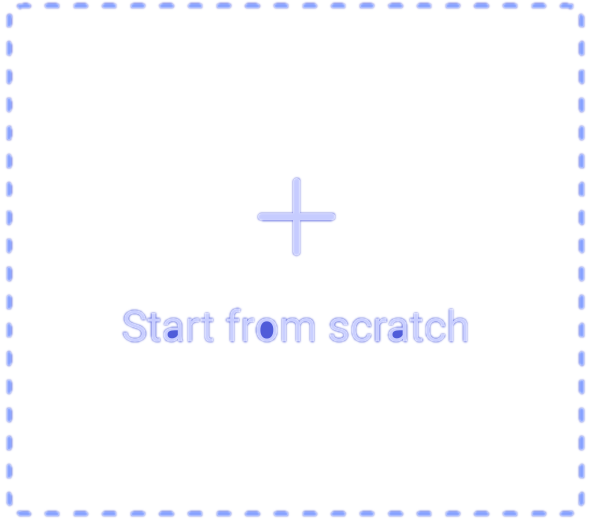
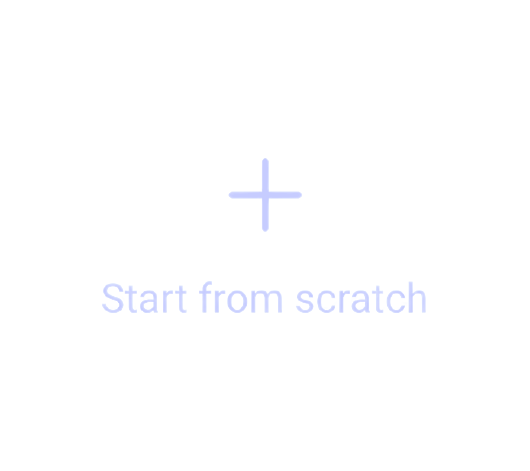
Commit3

diff --git a/src/Content/CardsSection.js b/src/Content/CardsSection.js
@@ -30,9 +30,14 @@ const useStyles = makeStyles(() => ({
     ['@media (max-width: 767px)']: { // eslint-disable-line no-useless-computed-key
       borderRadius: '40px',
       background: '#5f6dde',
-      justifyContent: 'center',
-      minWidth: '250px'
+      justifyContent: 'center'
     }
+  },
+  buttonsCardsHeaderContainer: {
+    display: 'flex',
+    flexDirection: 'row',
+    flexWrap: 'nowrap',
+    alignSelf: 'center'
   },
   buttonsCardsHeader: {
     background: '#6063dd',
@@ -41,7 +46,7 @@ const useStyles = makeStyles(() => ({
     fontSize: 14,
     textTransform: 'capitalize',
     height: 35,
-    marginRight: 5
+    marginRight: 10
   },
   buttonCustomerExperience: {
     border: '1px solid white'
@@ -64,12 +69,12 @@ const useStyles = makeStyles(() => ({
     }
   },
   formControl: {
-    width: 85
+    width: 80
   },
   searchHeader: {
     display: 'flex',
     flexDirection: 'row',
-    width: 110,
+    width: 100,
     ['@media (max-width: 768px)']: { // eslint-disable-line no-useless-computed-key
       flex: '1 0 auto'
     }
@@ -78,6 +83,12 @@ const useStyles = makeStyles(() => ({
     display: 'flex',
     flexDirection: 'row',
     alignItems: 'center'
+  },
+  inputSelect: {
+    marginTop: 5
+  },
+  inputSelectIcon: {
+    marginTop: 5
   }
 }))
 
@@ -104,7 +115,7 @@ const CardsSection = () => {
   return (
     <div className={classes.cardsContainer}>
       <div className={classes.cardsHeader}>
-        <div className='hidden-xs'>
+        <div className={`${classes.buttonsCardsHeaderContainer} hidden-xs`}>
           <Button
             className={
               `${classes.buttonCustomerExperience}
@@ -155,7 +166,12 @@ const CardsSection = () => {
               >
                 Newest
               </InputLabel>
-              <Select>
+              <Select
+                classes={{
+                  select: classes.inputSelect,
+                  icon: classes.inputSelectIcon
+                }}
+              >
                 <MenuItem>Newest</MenuItem>
                 <MenuItem>Oldest</MenuItem>
               </Select>

diff --git a/src/Content/Cards.js b/src/Content/Cards.js
@@ -16,14 +16,13 @@ import CardItem from './CardItem'
 
 const useStyles = makeStyles(() => ({
   firstCard: {
-    width: '220px',
     height: '200px',
     margin: '15px',
     borderRadius: '15px',
     alignSelf: 'center',
+    border: '2px dashed #c7cdff',
     ['@media (max-width: 768px)']: { // eslint-disable-line no-useless-computed-key
       height: 'auto',
-      width: '100%',
       margin: 0,
       marginTop: 15
     }
@@ -97,24 +96,23 @@ const Cards = () => {
   const classes = useStyles()
 
   return (
-      <div className='container'>
         <div className='row'>
           <div className='col-xs-12 hidden-sm hidden-md hidden-lg'>
             <div className={classes.firstCard}>
               <CardActionArea>
                 <img
-                  className={classes.cardImgForFirstCard}
+                  className={`${classes.cardImgForFirstCard} img-responsive`}
                   src={firstCardXs}
                   alt={'Picture'}
                 />
               </CardActionArea>
             </div>
           </div>
-          <div className='hidden-xs col-sm-4 col-md-4 col-lg-3'>
+          <div className='hidden-xs col-sm-6 col-md-4 col-lg-3'>
             <div className={classes.firstCard}>
               <CardActionArea>
                 <img
-                  className={classes.cardImgForFirstCard}
+                  className={`${classes.cardImgForFirstCard}  img-responsive`}
                   src={firstCard}
                   alt={'Picture'}
                 />
@@ -124,7 +122,7 @@ const Cards = () => {
           {cardData.map((card) => {
             return (
               // eslint-disable-next-line react/jsx-key
-              <div className='col-xs-12 col-sm-4 col-md-4 col-lg-3'>
+              <div className='col-xs-12 col-sm-6 col-md-4 col-lg-3'>
                 <CardItem
                   key={card.pic}
                   src={card.pic}
@@ -135,7 +133,6 @@ const Cards = () => {
             )
           })}
         </div>
-      </div>
   )
 }
 

diff --git a/src/Content/CardItem.js b/src/Content/CardItem.js
@@ -8,11 +8,12 @@ const useStyles = makeStyles(() => ({
     background: 'whitesmoke',
     borderRadius: '10px',
     height: '200px',
-    width: '210px',
     margin: '15px',
     ['@media (max-width: 768px)']: { // eslint-disable-line no-useless-computed-key
-      height: '130px',
+      height: 'auto',
       width: 'auto',
+      margin: 0,
+      marginTop: 10,
       flexDirection: 'row'
     }
   },
@@ -20,19 +21,19 @@ const useStyles = makeStyles(() => ({
     ['@media (max-width: 768px)']: { // eslint-disable-line no-useless-computed-key
       display: 'flex',
       flexDirection: 'row',
-      height: '130px',
-      width: 'auto',
+      height: '140px',
       justifyContent: 'flex-start'
     }
   },
   cardImg: {
+    width: '100%',
     height: '150px',
     objectFit: 'cover',
     borderTopLeftRadius: '10px',
     borderTopRightRadius: '10px',
     ['@media (max-width: 768px)']: { // eslint-disable-line no-useless-computed-key
       height: '100%',
-      width: 'auto',
+      width: '50%',
       flexDirection: 'row',
       alignSelf: 'flex-start',
       borderTopRightRadius: '0px',
@@ -44,18 +45,20 @@ const useStyles = makeStyles(() => ({
     flexDirection: 'column'
   },
   cardFooterTextH: {
-    marginTop: '5px',
+    marginTop: '10px',
     marginLeft: '10px',
     ['@media (max-width: 768px)']: { // eslint-disable-line no-useless-computed-key
-      order: 2
+      order: 2,
+      marginRight: 5
     }
   },
   cardFooterTextP: {
     color: 'darkgrey',
-    marginTop: '-15px',
+    marginTop: '-10px',
     marginLeft: '10px',
     ['@media (max-width: 768px)']: { // eslint-disable-line no-useless-computed-key
       marginTop: 5,
+      marginRight: 5,
       order: 1
     }
   }

diff --git a/src/App.js b/src/App.js
@@ -19,7 +19,10 @@ const useStyles = makeStyles(() => ({
     flexDirection: 'column',
     display: 'flex',
     justifyContent: 'center',
-    padding: 20
+    padding: 20,
+    ['@media (max-width: 400px)']: { // eslint-disable-line no-useless-computed-key
+      padding: 0
+    }
   },
   contentGetStartText: {
     display: 'flex',
@@ -36,17 +39,19 @@ const App = () => {
   return (
     <div className={classes.root}>
       <Drawer/>
-      <div className={classes.content}>
-        < HeaderContent/>
-        <div className={classes.contentGetStartText}>
-          <h3>Get started with featured templates</h3>
-          <p>
-            These templates can help you start saving time right away,
-            no matter which apps you use.
-          </p>
-        </div>
-        <div>
-          <CardsSection/>
+      <div className='container-fluid'>
+        <div className={classes.content}>
+          < HeaderContent/>
+          <div className={classes.contentGetStartText}>
+            <h3>Get started with featured templates</h3>
+            <p>
+              These templates can help you start saving time right away,
+              no matter which apps you use.
+            </p>
+          </div>
+          <div>
+            <CardsSection/>
+          </div>
         </div>
       </div>
     </div>

diff --git a/src/Drawer.js b/src/Drawer.js
@@ -20,8 +20,7 @@ const useStyles = makeStyles((theme) => ({
     ['@media (max-width: 768px)']: { // eslint-disable-line no-useless-computed-key
       display: 'flex',
       flexDirection: 'row',
-      width: 'auto',
-      minWidth: '255px'
+      width: '100%'
     }
   },
   buttonScrever: {
